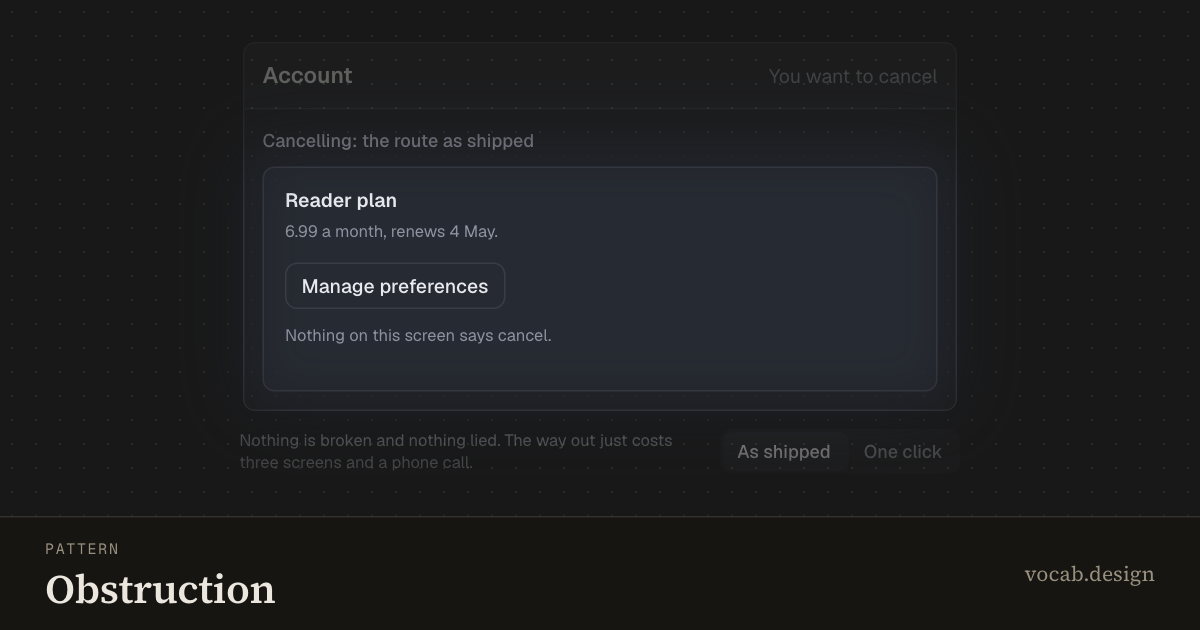
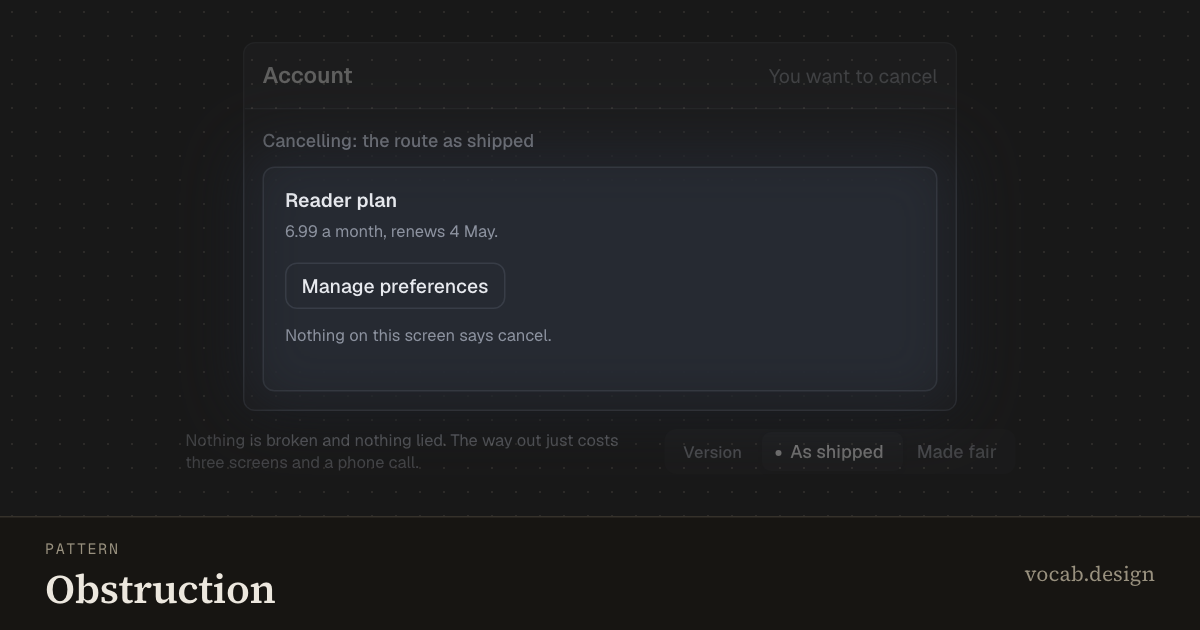
Give a comparison switch a key, and one spelling for the deceptive family
Forty-four percent of specimens carry a segmented switch, and none of them said
what it switched. A segment was the value of something the reader was never told:
"As shipped" sat beside a Delivery line on the sneak into basket checkout and read
as a postage option. The same absence made 489 of these controls unnamed tablists.

`<sp-segmented>` now takes two attributes. `data-axis` names what the control
changes, drawn as a legend in the pill and handed to the tablist as its accessible
name. `data-term` names the segment the headword points at, which is the claim
`data-pose` already makes to the stage, said out loud to the reader. Order cannot
carry that meaning: every switch reads baseline then change, which puts the term
first for a defect and second for a feature, and the corpus was unanimous about it
long before anyone wrote it down. SPEC §5.1 writes it down.

The deceptive-pattern family had reached for twelve spellings of one two-state
idea across nineteen specimens, because a switch label is invented by whoever is
authoring that term and read by nobody who has seen the others. It is `As shipped
| Made fair` now, and a gate holds it there. The enum stops at that family on
purpose: fair is an ethical word, and a stuck hover is wrong rather than unfair.

Four validate gates: a term with no axis, a term naming no real segment, a term
contradicting the pose, and an axis on a control whose pose names a state left
[…]

Changed region(s): [[0.1542, 0.6937, 0.8325, 0.754]]

diff --git a/scripts/validate-terms.ts b/scripts/validate-terms.ts
@@ -28,6 +28,19 @@ const VIEW_TRANSITION_CALL = /\.startViewTransition\s*(\(|\?\.)/;
 const TRANSITIONEND_WAIT = /addEventListener\(\s*['"]transitionend|\.ontransitionend\s*=/;
 /** Kit custom elements, and the module each one's registration lives in. */
 const KIT_ELEMENTS: Record<string, string> = { 'sp-segmented': 'segmented.ts', 'sp-combobox': 'combobox.ts' };
+/** A comparison switch and its parts: the whole element, then its segments' values. */
+const SEGMENTED = /<sp-segmented\b[\s\S]*?<\/sp-segmented>/g;
+const SEGMENT_VALUE = /class="sp-segment"[^>]*?\bvalue="([^"]*)"/g;
+/** The pose selector, which is where the stage already learns which state is the term. */
+const POSE_VALUE = /data-pose="([^"]*)"/;
+/**
+ * The counter-example pair, one spelling (SPEC §5.1). Nineteen demos had reached for
+ * twelve, because a switch label is invented by whoever is authoring that term and read
+ * by nobody who has seen the others. The specific claim belongs in the verdict line
+ * beside the switch, which is why the labels can afford to be this blunt.
+ */
+const FOIL_LABELS = { term: 'As shipped', foil: 'Made fair' } as const;
+
 /** Comments, stripped before a markup rule reads a demo: naming an element is not using one. */
 const COMMENTS = /\/\*[\s\S]*?\*\/|\/\/[^\n]*/g;
 /** An unquoted attribute value starting with a digit is not a valid CSS identifier. */
@@ -191,6 +204,46 @@ for (const term of terms.values()) {
         errors.push(`${term.slug}: demo waits on transitionend, which never fires under reduced motion; time it on the clock (SPEC §6)`);
       if (source.includes('.animate(') && !source.includes('prefersReducedMotion'))
         errors.push(`${term.slug}: demo animates in script without asking prefersReducedMotion (SPEC §6)`);
+
+      // A switch that changes what the specimen is showing has to say what it changes and
+      // which state the headword names (SPEC §5.1). Without the first, a segment is the
+      // value of nothing: "As shipped" beside a delivery line reads as a postage option.
+      // Without the second, a reader cannot tell the term from the foil it is shown
+      // against, and the order will not tell them: every switch reads baseline to change,
+      // which puts the term first for a defect and second for a feature.
+      for (const control of source.replace(COMMENTS, '').match(SEGMENTED) ?? []) {
+        const values = [...control.matchAll(SEGMENT_VALUE)].map((m) => m[1]);
+        const axis = control.match(/data-axis="([^"]*)"/)?.[1];
+        const marked = control.match(/data-term="([^"]*)"/)?.[1];
+        if (marked && !axis) errors.push(`${term.slug}: switch marks data-term but names no data-axis (SPEC §5.1)`);
+        if (marked && values.length > 0 && !values.includes(marked))
+          errors.push(`${term.slug}: switch data-term="${marked}" matches no segment value (SPEC §5.1)`);
+        // The stage already knows, so the two may not disagree: a pose naming one state
+        // and a mark naming another would point identify and the reader different ways.
+        const posed = source.match(POSE_VALUE)?.[1] ?? '';
+        const named = values.filter((value) => posed.includes(`=${value}]`));
+        if (marked && named.length === 1 && named[0] !== marked)
+          errors.push(`${term.slug}: switch data-term="${marked}" contradicts data-pose, which poses "${named[0]}" (SPEC §5.1)`);
+        if (!marked && named.length === 1 && axis)
+          errors.push(`${term.slug}: switch names an axis but not the state data-pose already calls the term (SPEC §5.1)`);
+      }
+
+      // One spelling for the deceptive-pattern family (SPEC §5.1). The enum stops here
+      // rather than covering every counter-example, because "made fair" is an ethical
+      // word: a broken heading order or a stuck hover is wrong, not unfair, and forcing
+      // those into these labels would cost the accuracy the enum is meant to buy.
+      const family = term.slug === 'dark-pattern' || (term.relations.variantOf ?? []).includes('dark-pattern');
+      if (family) {
+        for (const control of source.replace(COMMENTS, '').match(SEGMENTED) ?? []) {
+          const labels = [...control.matchAll(/class="sp-segment"[^>]*>([^<]*)</g)].map((m) => m[1]?.trim() ?? '');
+          if (labels.length !== 2) continue;
+          const [present, absent] = labels;
+          if (present !== FOIL_LABELS.term || absent !== FOIL_LABELS.foil)
+            errors.push(
+              `${term.slug}: deceptive-pattern switch reads "${present} | ${absent}"; the family spells it "${FOIL_LABELS.term} | ${FOIL_LABELS.foil}" (SPEC §5.1)`,
+            );
+        }
+      }
 
       // A kit custom element only upgrades where its module has been imported, and one
       // that never upgrades answers a click with silence: the choreography presses a

diff --git a/src/content/demos/fine-print/demo.ts b/src/content/demos/fine-print/demo.ts
@@ -4,10 +4,11 @@ import '#src/kit/segmented.ts';
 type Setting = 'standard' | 'conspicuous';
 
 /**
- * One offer, and the line that says what the headline left out, set two ways. Both are
- * honest instances of the term: fine print stays fine print whether or not it is
- * readable, because the word names the treatment rather than the deception, so the
- * subject needs no `data-pose` (SPEC §6).
+ * One offer, and the line that says what the headline left out, set two ways. Only the
+ * first is the term: a qualifier moved up beside the claim and set at a size a reader
+ * can hold is a conspicuous disclosure, which is the thing fine print is defined
+ * against, so the subject declares the standard setting as its honest condition
+ * (`data-pose`) and the switch names the same state to the reader (`data-term`).
  *
  * The subject is the qualifying LINE, the narrowest element the term names (SPEC §5).
  * The offer card, the segmented control and the caption are scenery, in the context
@@ -37,8 +38,8 @@ export function mount(root: HTMLElement): void {
     <div class="sp-app">
       <div class="sp-window" style="width: 436px; padding: 12px 15px">
         <div class="sp-row sp-row--between sp-context" style="gap: 10px">
-          <span class="sp-label" style="flex: 0 0 auto">The qualifier is set</span>
-          <sp-segmented class="sp-segmented" data-part="segmented" data-value="standard">
+          <sp-segmented class="sp-segmented" data-part="segmented" data-value="standard"
+                        data-axis="Qualifier" data-term="standard">
             <button class="sp-segment" data-part="seg-standard" value="standard"
                     style="padding: 5px 10px; font-size: 12px; white-space: nowrap">As shipped</button>
             <button class="sp-segment" data-part="seg-conspicuous" value="conspicuous"
@@ -62,7 +63,7 @@ export function mount(root: HTMLElement): void {
           <div class="sp-divider sp-context" style="margin-top: 10px"></div>
 
           <div data-part="slot-foot" data-filled style="height: 26px; padding-top: 6px">
-            <span class="sp-text" data-part="qualifier" data-subject data-set="standard"
+            <span class="sp-text" data-part="qualifier" data-subject data-set="standard" data-pose="[data-set=standard]"
                   style="display: block">Then $12 a month. Cancel any time before your renewal date.</span>
           </div>
         </div>

diff --git a/.claude/skills/specimen-sweep/detectors/unkeyed-switch.ts b/.claude/skills/specimen-sweep/detectors/unkeyed-switch.ts
@@ -1,0 +1,45 @@
+// Comparison switches with no key: an `<sp-segmented>` carrying no `data-axis`, so its
+// segments are the values of something the reader is never told (SPEC §5.1). Also reports
+// the state `data-pose` already calls the term, which is the `data-term` the control
+// should be marking. Deterministic, not recall-tuned: the absence of an attribute is not
+// a guess. What a fixer still has to decide is the axis WORDING, and whether a switch
+// with an ambiguous or absent pose has a term state at all (a variant or a parameter
+// switch has none, and must not be given one).
+// Run from the repo root: bun .claude/skills/specimen-sweep/detectors/unkeyed-switch.ts
+import { readdirSync, readFileSync } from 'node:fs';
+import { join } from 'node:path';
+
+const DEMOS = 'src/content/demos';
+const COMMENTS = /\/\*[\s\S]*?\*\/|^\s*\/\/[^\n]*$/gm;
+const CONTROL = /<sp-segmented\b[\s\S]*?<\/sp-segmented>/g;
+const SEGMENT = /class="sp-segment"[^>]*?\bvalue="([^"]*)"[^>]*>([\s\S]*?)<\/button>/g;
+
+const tally = { derived: 0, ambiguous: 0, variant: 0 };
+let flagged = 0;
+for (const slug of readdirSync(DEMOS).sort()) {
+  let source: string;
+  try {
+    source = readFileSync(join(DEMOS, slug, 'demo.ts'), 'utf8');
+  } catch {
+    continue;
+  }
+  const markup = source.replace(COMMENTS, '');
+  const pose = markup.match(/data-pose="([^"]*)"/)?.[1] ?? '';
+  for (const control of markup.match(CONTROL) ?? []) {
+    if (control.includes('data-axis=')) continue;
+    const segments = [...control.matchAll(SEGMENT)].map((m) => ({
+      value: m[1] ?? '',
+      label: (m[2] ?? '').replace(/<[^>]+>/g, '').replace(/\s+/g, ' ').trim(),
+    }));
+    if (segments.length < 2) continue;
+    // The pose names a segment value outright: the term state is decided, not guessed.
+    const named = segments.filter((s) => pose.includes(`=${s.value}]`));
+    const kind = named.length === 1 ? 'derived' : pose ? 'ambiguous' : 'variant';
+    tally[kind]++;
+    flagged++;
+    const term = named.length === 1 ? `term=${named[0]?.value}` : pose ? `pose=${pose} (names no segment)` : 'no pose';
+    const labels = segments.map((s) => `${s.value}="${s.label}"`).join(' ');
+    console.log(`${slug}\t${kind}; ${term}; ${labels}`);
+  }
+}
+console.error(`\n${flagged} switches with no data-axis: ${tally.derived} derived, ${tally.ambiguous} ambiguous, ${tally.variant} variant/parameter`);

diff --git a/src/kit/segmented.ts b/src/kit/segmented.ts
@@ -3,6 +3,14 @@
  * state ship as custom elements, written once and reused). Children are
  * `.sp-segment` buttons carrying a `value`; the element owns the sliding thumb,
  * the tablist roles, and the `change` event demos listen to.
+ *
+ * Two attributes turn a bare switch into a comparison a cold reader can read
+ * (SPEC §5.1). `data-axis` names what the switch changes, so a segment reads as
+ * the value of something rather than as a stray phrase in the scene: without it
+ * "As shipped" sits next to a delivery line and reads as a postage option.
+ * `data-term` names the segment the headword actually points at, so a reader can
+ * tell the term from the foil it is shown against; the stage's own `data-pose`
+ * already knows this, and this is the same claim said out loud.
  */
 class SpSegmented extends HTMLElement {
   #thumb: HTMLElement | undefined;
@@ -10,6 +18,10 @@ class SpSegmented extends HTMLElement {
   connectedCallback(): void {
     if (this.#thumb) return;
     this.setAttribute('role', 'tablist');
+    // The legend is drawn from `data-axis` by the kit stylesheet, so it is never in
+    // the accessibility tree: the tablist has to carry the same words as its name.
+    const axis = this.dataset.axis;
+    if (axis) this.setAttribute('aria-label', axis);
     const thumb = document.createElement('span');
     thumb.className = 'sp-segmented-thumb';
     this.prepend(thumb);
@@ -17,6 +29,7 @@ class SpSegmented extends HTMLElement {
 
     for (const segment of this.#segments) {
       segment.setAttribute('role', 'tab');
+      if (segment.value === this.dataset.term) segment.setAttribute('data-term-state', '');
       segment.addEventListener('click', () => {
         this.value = segment.value;
       });

diff --git a/src/kit/controls.css b/src/kit/controls.css
@@ -542,6 +542,43 @@
   color: var(--sp-ink);
 }
 
+/* The legend: what the switch changes, drawn from `data-axis` so the attribute is the
+   single source of truth and the element can hand the same words to the tablist as its
+   accessible name. It is a flex item like the segments, so the thumb's offsetLeft
+   arithmetic accounts for it without knowing it is there. */
+.sp-segmented[data-axis]::before {
+  content: attr(data-axis);
+  align-self: stretch;
+  display: flex;
+  align-items: center;
+  padding: 0 10px;
+  font-size: 11px;
+  font-weight: 500;
+  letter-spacing: 0.01em;
+  color: var(--sp-muted);
+  white-space: nowrap;
+}
+
+/* The segment the headword names, marked so a reader can tell the term from the foil it
+   is shown against. Deliberately quiet: inside `.sp-context` the accent is already
+   chroma-free, and annotation that competes with the subject belongs to the stage. */
+.sp-segment[data-term-state]::before {
+  content: "";
+  display: inline-block;
+  width: 4px;
+  height: 4px;
+  margin-right: 6px;
+  vertical-align: 0.12em;
+  border-radius: 50%;
+  background: currentcolor;
+  opacity: 0.55;
+}
+
+.sp-segment[data-term-state][aria-selected="true"]::before,
+.sp-segment[data-term-state][data-selected]::before {
+  opacity: 1;
+}
+
 .sp-segmented-thumb {
   position: absolute;
   top: 2px;

diff --git a/src/content/demos/trick-wording/demo.ts b/src/content/demos/trick-wording/demo.ts
@@ -54,9 +54,9 @@ export function mount(root: HTMLElement): void {
       <div class="sp-frame sp-frame--wide" style="width: 476px; height: 274px">
         <div class="sp-topbar sp-context">
           <span class="sp-heading sp-grow" style="font-size: 13px">Membership, step 3 of 3</span>
-          <sp-segmented class="sp-segmented" data-part="mode" data-value="tricked" style="flex: 0 0 auto">
-            <button class="sp-segment" data-part="mode-tricked" type="button" value="tricked" style="padding: 4px 9px; font-size: 12px">As written</button>
-            <button class="sp-segment" data-part="mode-plain" type="button" value="plain" style="padding: 4px 9px; font-size: 12px">Made plain</button>
+          <sp-segmented class="sp-segmented" data-part="mode" data-value="tricked" data-axis="Version" data-term="tricked" style="flex: 0 0 auto">
+            <button class="sp-segment" data-part="mode-tricked" type="button" value="tricked" style="padding: 4px 9px; font-size: 12px">As shipped</button>
+            <button class="sp-segment" data-part="mode-plain" type="button" value="plain" style="padding: 4px 9px; font-size: 12px">Made fair</button>
           </sp-segmented>
         </div>
         <div class="sp-body" style="display: flex; flex-direction: column; gap: 10px">

diff --git a/src/content/demos/comparison-prevention/demo.ts b/src/content/demos/comparison-prevention/demo.ts
@@ -97,9 +97,9 @@ export function mount(root: HTMLElement): void {
       <div class="sp-frame sp-frame--wide" style="width: 476px; height: 262px">
         <div class="sp-topbar sp-context" style="padding: 7px 12px">
           <span class="sp-heading sp-grow" style="font-size: 13px">Pick a plan</span>
-          <sp-segmented class="sp-segmented" data-part="mode" data-value="prevented" style="flex: 0 0 auto">
-            <button class="sp-segment" data-part="mode-prevented" type="button" value="prevented" style="padding: 4px 9px; font-size: 11.5px">As published</button>
-            <button class="sp-segment" data-part="mode-comparable" type="button" value="comparable" style="padding: 4px 9px; font-size: 11.5px">Lined up</button>
+          <sp-segmented class="sp-segmented" data-part="mode" data-value="prevented" data-axis="Version" data-term="prevented" style="flex: 0 0 auto">
+            <button class="sp-segment" data-part="mode-prevented" type="button" value="prevented" style="padding: 4px 9px; font-size: 11.5px">As shipped</button>
+            <button class="sp-segment" data-part="mode-comparable" type="button" value="comparable" style="padding: 4px 9px; font-size: 11.5px">Made fair</button>
           </sp-segmented>
         </div>
 

diff --git a/src/content/demos/privacy-zuckering/demo.ts b/src/content/demos/privacy-zuckering/demo.ts
@@ -54,9 +54,9 @@ export function mount(root: HTMLElement): void {
       <div class="sp-frame sp-frame--wide" style="width: 460px; height: 282px">
         <div class="sp-topbar sp-context" style="padding: 7px 12px">
           <span class="sp-heading sp-grow" style="font-size: 13px">Loomly, account setup</span>
-          <sp-segmented class="sp-segmented" data-part="mode" data-value="steered" style="flex: 0 0 auto">
-            <button class="sp-segment" data-part="mode-steered" type="button" value="steered" style="padding: 4px 9px; font-size: 11.5px">Steered</button>
-            <button class="sp-segment" data-part="mode-plain" type="button" value="plain" style="padding: 4px 9px; font-size: 11.5px">Even-handed</button>
+          <sp-segmented class="sp-segmented" data-part="mode" data-value="steered" data-axis="Version" data-term="steered" style="flex: 0 0 auto">
+            <button class="sp-segment" data-part="mode-steered" type="button" value="steered" style="padding: 4px 9px; font-size: 11.5px">As shipped</button>
+            <button class="sp-segment" data-part="mode-plain" type="button" value="plain" style="padding: 4px 9px; font-size: 11.5px">Made fair</button>
           </sp-segmented>
         </div>
 

diff --git a/src/content/demos/friend-spam/demo.ts b/src/content/demos/friend-spam/demo.ts
@@ -86,9 +86,9 @@ export function mount(root: HTMLElement): void {
       <div class="sp-frame sp-frame--wide" style="width: 476px; height: 268px">
         <div class="sp-topbar sp-context" style="padding: 7px 12px">
           <span class="sp-heading sp-grow" style="font-size: 13px">Loomly, first run</span>
-          <sp-segmented class="sp-segmented" data-part="mode" data-value="vague" style="flex: 0 0 auto">
-            <button class="sp-segment" data-part="mode-vague" type="button" value="vague" style="padding: 4px 9px; font-size: 11.5px">As asked</button>
-            <button class="sp-segment" data-part="mode-exact" type="button" value="exact" style="padding: 4px 9px; font-size: 11.5px">Asked exactly</button>
+          <sp-segmented class="sp-segmented" data-part="mode" data-value="vague" data-axis="Version" data-term="vague" style="flex: 0 0 auto">
+            <button class="sp-segment" data-part="mode-vague" type="button" value="vague" style="padding: 4px 9px; font-size: 11.5px">As shipped</button>
+            <button class="sp-segment" data-part="mode-exact" type="button" value="exact" style="padding: 4px 9px; font-size: 11.5px">Made fair</button>
           </sp-segmented>
         </div>
 

diff --git a/src/content/demos/drip-pricing/demo.ts b/src/content/demos/drip-pricing/demo.ts
@@ -14,7 +14,7 @@ const STEPS = ['Seats', 'Delivery', 'Payment', 'Confirm'] as const;
 const ALL_IN = TICKET + FEES.reduce((sum, fee) => sum + fee.amount, 0);
 
 const CAPTION = {
-  dripping: 'The total (as sold)',
+  dripping: 'The total (as advertised)',
   honest: 'The total (all in, up front)',
 } as const;
 
@@ -98,9 +98,9 @@ export function mount(root: HTMLElement): void {
       </div>
       <div class="sp-row sp-context" style="gap: 12px">
         <span class="sp-text" data-part="verdict" style="width: 296px; font-size: 11px">${VERDICT.dripping}</span>
-        <sp-segmented class="sp-segmented" data-part="mode" data-value="dripping">
-          <button class="sp-segment" data-part="mode-dripping" value="dripping">As sold</button>
-          <button class="sp-segment" data-part="mode-honest" value="honest">All in</button>
+        <sp-segmented class="sp-segmented" data-part="mode" data-value="dripping" data-axis="Version" data-term="dripping">
+          <button class="sp-segment" data-part="mode-dripping" value="dripping">As shipped</button>
+          <button class="sp-segment" data-part="mode-honest" value="honest">Made fair</button>
         </sp-segmented>
       </div>
     </div>

diff --git a/src/content/demos/obstruction/demo.ts b/src/content/demos/obstruction/demo.ts
@@ -106,9 +106,9 @@ export function mount(root: HTMLElement): void {
       </div>
       <div class="sp-row sp-context" style="gap: 14px">
         <span class="sp-text" data-part="verdict" style="width: 306px; height: 30px; font-size: 11px; line-height: 1.35">${VERDICT.obstructed}</span>
-        <sp-segmented class="sp-segmented" data-part="route" data-value="obstructed">
+        <sp-segmented class="sp-segmented" data-part="route" data-value="obstructed" data-axis="Version" data-term="obstructed">
           <button class="sp-segment" data-part="route-obstructed" type="button" value="obstructed" style="padding: 4px 10px; font-size: 12px">As shipped</button>
-          <button class="sp-segment" data-part="route-direct" type="button" value="direct" style="padding: 4px 10px; font-size: 12px">One click</button>
+          <button class="sp-segment" data-part="route-direct" type="button" value="direct" style="padding: 4px 10px; font-size: 12px">Made fair</button>
         </sp-segmented>
       </div>
     </div>

diff --git a/src/content/demos/fake-social-proof/demo.ts b/src/content/demos/fake-social-proof/demo.ts
@@ -98,9 +98,9 @@ export function mount(root: HTMLElement, clock: DemoClock): void {
       </div>
       <div class="sp-row sp-context" style="gap: 12px">
         <span class="sp-text" data-part="verdict" style="font-size: 11px; width: 292px">${VERDICT.fabricated}</span>
-        <sp-segmented class="sp-segmented" data-part="mode" data-value="fabricated">
+        <sp-segmented class="sp-segmented" data-part="mode" data-value="fabricated" data-axis="Version" data-term="fabricated">
           <button class="sp-segment" data-part="mode-fabricated" value="fabricated">As shipped</button>
-          <button class="sp-segment" data-part="mode-genuine" value="genuine">Made honest</button>
+          <button class="sp-segment" data-part="mode-genuine" value="genuine">Made fair</button>
         </sp-segmented>
       </div>
     </div>
